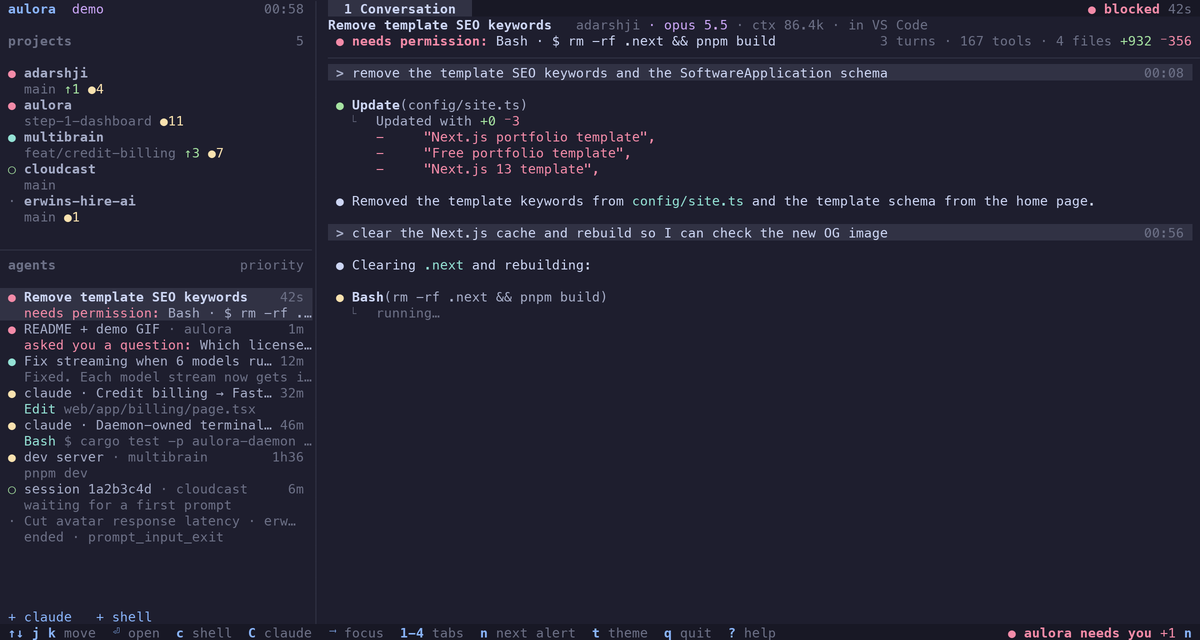
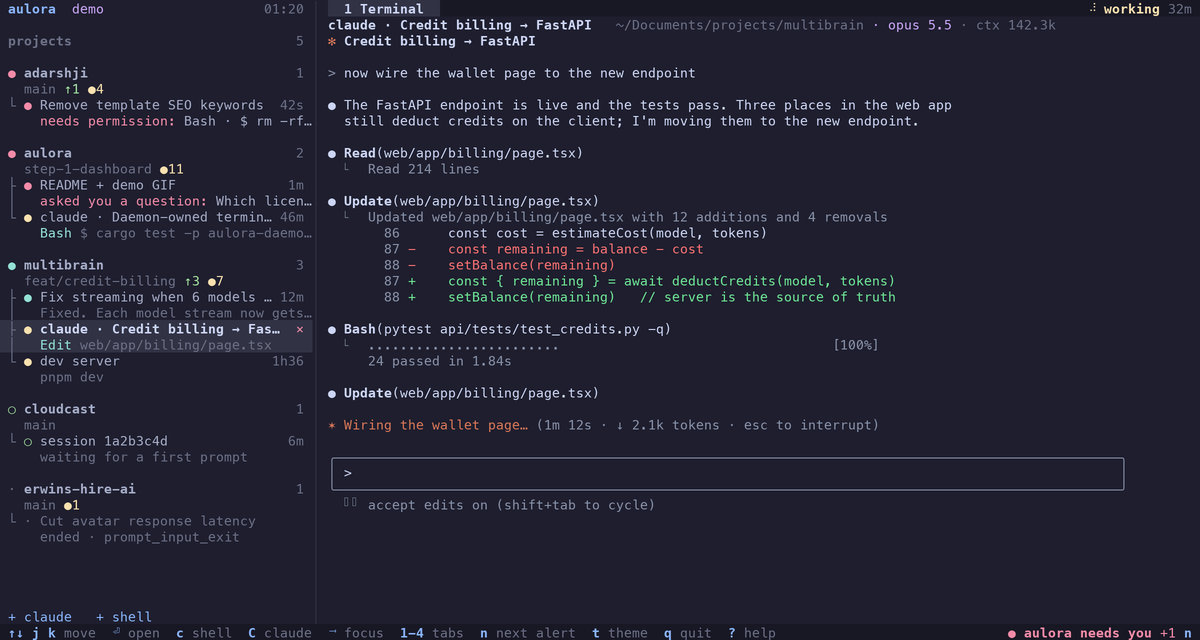
docs: Describe the project tree, resume and the row menu.

diff --git a/docs/DESIGN.md b/docs/DESIGN.md
@@ -13,23 +13,27 @@ aulora should feel like **home**: familiar from the first minute because it beha
 ## Layout
 
 ```
- aulora   multibrain › claude                       ● 1 blocked  ● 2 working   23:41
- PROJECTS                      │ claude · Credit billing → FastAPI       ● working 4m
- ● adarshji                    │ multibrain  ~/…/multibrain  opus 5.5  ctx 142k
-   main ↑1                     │ Terminal   Conversation   Changes 7   Files
- ● multibrain                  │ ─────────────────────────────────────────────────
-   feat/credit-billing ↑3      │
- ──────────────────────────────│   (one view at a time)
- AGENTS               priority │
- ● claude · billing  multibrain│
-   Edit page.tsx 9s            │
- ● README + demo GIF    aulora │
- ○ dev server       multibrain │
+ aulora                  23:41 │ 1 Terminal   2 Changes 7   3 Files      ● working 4m
+ projects                    3 │ claude · Credit billing → FastAPI   ~/…/multibrain
+                               │
+ ● multibrain                + │  (the agent's terminal, live)
+   feat/credit-billing ↑3 ●7   │
+ ├ ● claude · billing    32m × │
+ │   Edit page.tsx             │
+ └ ○ dev server         1h36   │
+     pnpm dev                  │
+                               │
+ ● adarshji                  1 │
+   main ↑1 ●4                  │
+ └ · Remove SEO keywords       │
+     past session · 2h ago     │
 ```
 
-- **Sidebar, two sections** (Herdr: spaces above agents). `PROJECTS` lists projects with their rolled-up state and a second line for branch and ahead/behind. `AGENTS` lists everything that runs: Claude sessions, Claude panes, shells and commands. Agents sort by priority (blocked, done, working, idle) or group by project, toggled from the header (Herdr's `priority` / `grouped`).
-- **Selecting a project** filters the agents list to it and shows the project in the main area. Selecting it again clears the filter.
-- **Main area** shows the selected agent or project: a title line, a meta line, a tab bar, and the tab's content. Tabs: **Terminal · Conversation · Changes · Files**. There is no Activity tab: events appear in the conversation where they happened (Claude Code's own transcript does this).
+- **Sidebar, one tree** (VS Code's explorer, Herdr's spaces). Each project shows its rolled-up state and a second line for branch, ahead/behind and changes. Under it, `├`/`└` branches list everything that runs there, most urgent first: Claude panes, shells, commands, and Claude sessions running elsewhere. Projects sort the same way, so whatever needs you is near the top. A flat priority list was tried and dropped: it hid which project an agent belongs to, and that's the first thing you need when switching.
+- **The project is where new things start.** With a project or any of its agents selected, `C`, `c`, the `+` on the project row and the menu's *New Claude here* / *New shell here* start in that project's folder.
+- **Every agent is a terminal.** An agent aulora runs shows its live terminal. A session that has ended (or a past one, `h`) opens as a terminal running `claude --resume <id>` in the folder it ran in, so you continue it rather than read it. A session still running somewhere else (VS Code, Ghostty) shows its conversation read-only, with `r` to fork it here (`claude --resume <id> --fork-session`): resuming it outright would put two processes on one transcript.
+- **Closing** is a `×` on the hovered or selected row (VS Code's editor tabs), `x`, or the menu. Killing a running pane asks first; closing an exited pane or dismissing an ended session doesn't.
+- **Main area** shows the selected agent or project: a tab bar, a title and meta line, and the tab's content. Tabs: **Terminal · Changes · Files** for agents, **Overview** for projects, **Conversation** only for sessions running outside aulora. There is no Activity tab: events appear in the conversation where they happened (Claude Code's own transcript does this).
 - **Rows** are two lines: `● name · detail` then an indented second line, tokens joined by ` · `. When space runs out, whole tokens drop before text is cut with `…` (Herdr).
 - **Narrow terminals** (< 90 columns): the sidebar collapses to glyphs and counts, and focus shows one region at a time (Herdr's compact sidebar, lazygit's portrait mode).
 
@@ -63,7 +67,7 @@ One keymap table drives key handling, the footer hints and the `?` help, so they
 |---|---|---|
 | `↑` `↓` / `j` `k` | move in the focused list, or scroll by line | everywhere |
 | `⇥` / `⇧⇥` | next / previous region | lazygit panels |
-| `1`–`4` | Terminal, Conversation, Changes, Files | Herdr `prefix+1..9`, lazygit panel jumps |
+| `1`–`4` | switch tabs | Herdr `prefix+1..9`, lazygit panel jumps |
 | `[` `]` | previous / next tab | vim-unimpaired, Herdr `n`/`p` |
 | `⏎` | open: type into a pane, focus a view, expand an item | |
 | `Ctrl-Q` | leave a terminal | claude-squad |
@@ -75,6 +79,8 @@ One keymap table drives key handling, the footer hints and the `?` help, so they
 | `e` | edit the selected file in a terminal editor pane | lazygit `e` |
 | `o` | open in VS Code at the line | lazygit `o` |
 | `x` | close / kill (asks first when it would interrupt work) | k9s |
+| `r` | restart an exited pane; resume a session in a new terminal | k9s `r` |
+| `m` | the selection's menu (same as right-click) | lazygit `?`-menus, VS Code context menu |
 | `t` | themes | Herdr settings |
 | `?` | help, searchable, runs the binding on Enter | lazygit |
 | `q` | quit; panes keep running | |
@@ -83,7 +89,9 @@ The footer shows 5–7 hints for the focused region and `? more`, shortening lab
 
 ## Mouse
 
-- Mouse capture is on (Herdr, zellij). Click focuses and selects; clicking a tab switches to it; right-click opens a context menu.
+- Mouse capture is on (Herdr, zellij). Click focuses and selects; clicking a selected row (or double-clicking) opens it; clicking a tab switches to it.
+- Hovering a row shows its button: `×` on agents, `+` on projects (VS Code's tabs and explorer). Only the hovered or selected row shows one, so the list stays calm.
+- Right-click opens a menu for what's under the pointer: Type here, Resume in a terminal, Restart, Close, New Claude here, New shell here, Open in VS Code (VS Code's context menu). In a program that reads the mouse, right-click goes to the program instead.
 - **The wheel scrolls whatever is under the pointer**, not whatever has focus (VS Code, Herdr).
 - In a terminal pane the wheel goes to the program if it asked for mouse events, becomes arrow keys if it runs full-screen, and otherwise scrolls aulora's copy of the scrollback (xterm.js, zellij, Herdr).
 - 3 lines per wheel notch. Fast trackpad streams scroll about 1 line per event and speed up gently; fractions carry over and reset on direction change (helix, codex).
@@ -101,7 +109,7 @@ The footer shows 5–7 hints for the focused region and `? more`, shortening lab
 
 ## Conversation
 
-Claude Code's own transcript, readable and scrollable.
+Claude Code's own transcript, readable and scrollable. It shows for sessions running outside aulora; everything else is a terminal.
 
 - Your prompts, Claude's replies with light markdown, and every tool call in place, with its result: commands with exit status, duration and the first lines of output; edits with `+n −m` and a short colored diff; reads and searches as one-line summaries. `⏎` expands any of them.
 - Permission requests, questions and your answers, subagents, compaction, interruptions and session start and end appear inline as quiet notes.

diff --git a/README.md b/README.md
@@ -21,7 +21,7 @@ If you run Claude Code in several projects at once, you end up with a VS Code wi
 aulora watches every session through Claude Code's hooks and shows them all in one terminal dashboard:
 
 - **What needs you.** Permission prompts, questions (`AskUserQuestion`) and plans waiting for review show in amber at the top, with what Claude is asking for.
-- **What's happening where.** Each project shows its branch and git status. For each session, tabs show the whole conversation (scrollable, searchable, with every tool call), an overview (current tool call, your last prompt, Claude's latest reply, recent tool calls with timings, files edited with `+/−` lines, context size) and its activity.
+- **What's happening where.** One tree: each project with its branch and git status, and under it every agent running there. Every agent is a terminal. Sessions that have ended open again with `claude --resume`, in the folder they ran in. Sessions running in another app (VS Code, Ghostty) show their whole conversation, scrollable and searchable, with every tool call.
 - **Run Claude and your shells inside it.** <kbd>C</kbd> starts Claude Code in a pane and <kbd>c</kbd> starts a shell. The daemon owns these terminals, so they keep running when you close the dashboard, and `aulora attach` puts any of them in another terminal. A Claude session in a pane shows its live status right above its screen.
 - **Jump straight there.** <kbd>⏎</kbd> opens the project in your editor, and VS Code brings that project's window to the front. <kbd>n</kbd> cycles through the sessions that need you.
 
@@ -29,7 +29,7 @@ It works with Claude Code running anywhere: VS Code, Cursor, Ghostty, iTerm, tmu
 
 ## Screenshots
 
-| A Claude Code pane, live | The whole conversation |
+| A Claude Code pane, live | A session running in VS Code |
 |---|---|
 | ![pane](docs/screenshots/pane.png) | ![conversation](docs/screenshots/conversation.png) |
 | **GitHub Light** | **tmux** |
@@ -70,18 +70,19 @@ Sessions show up as soon as they start or you send a prompt. To try the dashboar
 
 ### Keys
 
-aulora follows Herdr: a sidebar of **projects** above **agents** (Claude sessions, Claude panes, shells), and a main area with tabs. The mouse works everywhere: click to select or focus, wheel to scroll whatever is under the pointer, click a pane to type into it.
+aulora follows Herdr: a sidebar with each **project** and the **agents** running in it (Claude panes, shells, Claude sessions elsewhere), and a main area with tabs. The mouse works everywhere: click to select or focus, wheel to scroll whatever is under the pointer, click a pane to type into it, <kbd>×</kbd> to close, right-click for a menu.
 
 | Key | Action |
 |---|---|
 | <kbd>↑</kbd> <kbd>↓</kbd> / <kbd>j</kbd> <kbd>k</kbd> | Move in the sidebar; scroll a line in the main area |
-| <kbd>⏎</kbd> | Open: focus the main area, type into a pane, expand a tool call |
+| <kbd>⏎</kbd> | Open: type into a pane, resume an ended session, expand a tool call |
 | <kbd>⇥</kbd> | Switch focus between the sidebar and the main area |
-| <kbd>1</kbd>–<kbd>4</kbd> | Switch tabs (Terminal, Conversation) |
+| <kbd>1</kbd>–<kbd>4</kbd> | Switch tabs |
 | <kbd>Ctrl</kbd>+<kbd>Q</kbd> | Leave a terminal you're typing into (press it again to send Ctrl-Q to the program) |
 | <kbd>c</kbd> / <kbd>C</kbd> | New shell / new Claude Code pane in the selected project |
 | <kbd>n</kbd> | Jump to the next agent that needs you |
-| <kbd>s</kbd> | Sort agents by priority, or group them by project |
+| <kbd>r</kbd> | Restart an exited pane; resume a session in a new terminal |
+| <kbd>m</kbd> | Menu for the selection (same as right-click) |
 | <kbd>x</kbd> | Kill a pane (asks first), close an exited one, or dismiss an ended session |
 | <kbd>z</kbd> | Zoom the main area to the whole screen |
 | <kbd>/</kbd> | Filter the sidebar; search a conversation |
